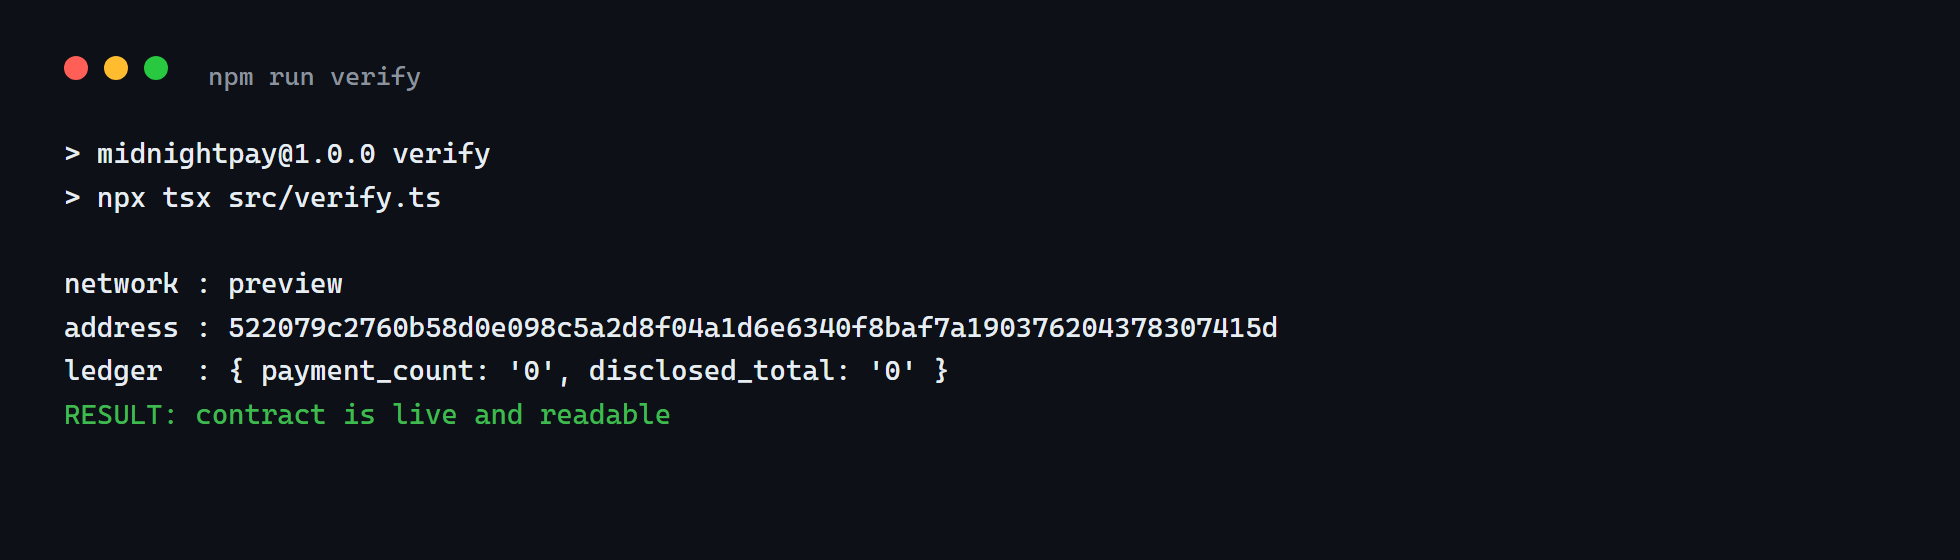
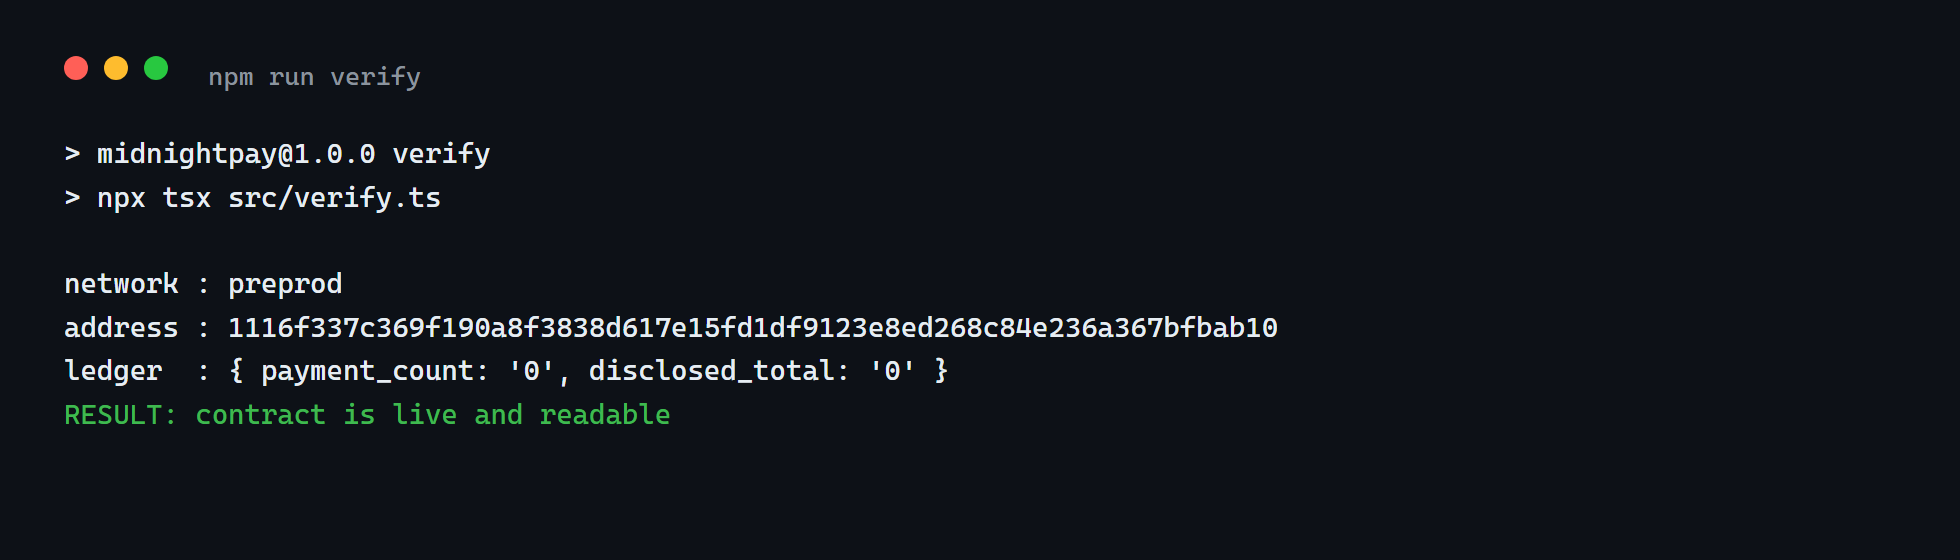
docs: record the preprod contract address and first-sync guidance

Changed region(s): [[0.0934, 0.5464, 0.6536, 0.6071], [0.1245, 0.4857, 0.1867, 0.5161]]

diff --git a/README.md b/README.md
@@ -7,7 +7,10 @@
 | Network  | Address                          |
 |----------|----------------------------------|
[1 lines of base64/hex data omitted]
-| Preprod  | [PASTE ADDRESS AFTER DEPLOY]     |
[1 lines of base64/hex data omitted]
+
+Deployer address (preprod):
+`mn_addr_preprod1nqwdmsv67cnllvlf4sfnamus7ewtsxcxyy7n3jtrkdq25529wtdq6wnpjm`
 
 ## What This Does
 
@@ -62,7 +65,7 @@ explicitly publish.
 | Docker Desktop | Running daemon, `docker ps` succeeds |
 | Compact compiler | `compact --version` prints a version number (Linux/macOS). On Windows there is no native binary — `npm run compile` falls back to compiling inside Docker automatically. |
 | Git | For cloning and committing |
-| Midnight faucet funds | Preview faucet: https://midnight-tmnight-preview.nethermind.dev/ |
+| Faucet tNIGHT | Preview: https://midnight-tmnight-preview.nethermind.dev/ — Preprod: https://faucet.preprod.midnight.network (both require the Cloudflare Turnstile, so use the browser UI) |
 
 ## Setup
 
@@ -91,7 +94,26 @@ NODE_OPTIONS="--max-old-space-size=12288" npm run deploy -- --network preview
 
 # Select the active network for later commands
 npm run network preview
+
+# ── Or deploy to preprod ──────────────────────────────────────────────────────
+# 1. Pick the network, then read the address to fund (no sync needed):
+npm run network preprod
+npx tsx src/fund-address.ts          # prints the bech32 address + faucet URL
+
+# 2. Fund it at https://faucet.preprod.midnight.network (browser; Turnstile).
+
+# 3. Deploy. First sync on a brand-new preprod address replays the whole
+#    private-ledger history from the indexer (the dust ledger alone is
+#    ~1.5M events) — expect roughly 3–4 hours of sustained CPU, then the
+#    deploy itself takes seconds. The wallet writes checkpoints to
+#    .midnight-wallet-state/ only AFTER a successful sync, so an
+#    interrupted first run starts over: run it detached (nohup / start)
+#    and do not let your session die mid-sync.
+NODE_OPTIONS="--max-old-space-size=12288" npm run deploy -- --network preprod
 ```
+
+> After the first successful preprod sync the state is cached, so any later
+> re-deploy resumes in seconds instead of hours.
 
 > **Compiler version is pinned to `0.31.1`.** It is the release whose
 > `runtime-version` is `0.16.0`, which is exactly what `@midnight-ntwrk/compact-runtime`
@@ -115,20 +137,25 @@ The suite has two layers:
 
 ## Verify the Deployment
 
-Read the public ledger back from the indexer to prove the contract is live:
+Read the public ledger back from the indexer to prove the contract is live.
+`npm run verify` uses the active network from `.midnight-state.json`
+(`npm run network <name>` to switch):
 
 ```bash
 npm run verify
 ```
 
-Expected output for a freshly deployed contract:
+Expected output for a freshly deployed contract (active network: preprod):
 
 ```
-network : preview
-address : 522079c2760b58d0e098c5a2d8f04a1d6e6340f8baf7a190376204378307415d
+network : preprod
+address : 1116f337c369f190a8f3838d617e15fd1df9123e8ed268c84e236a367bfbab10
 ledger  : { payment_count: '0', disclosed_total: '0' }
 RESULT: contract is live and readable
 ```
+
+On preview the same command prints `network : preview` and the preview
+address from the table above.
 
 `payment_count` and `disclosed_total` are the two public ledger fields — both
 start at zero and only change when `pay()` settles a payment. Nothing else about
@@ -160,7 +187,7 @@ payment settlement where the payer, not the chain, decides what the world gets t
 
 ![npm test](docs/tests.png)
 
-**On-chain verification** — `npm run verify` (public ledger read back from the preview indexer):
+**On-chain verification** — `npm run verify` (public ledger read back from the preprod indexer):
 
 ![npm run verify](docs/verify.png)
 
